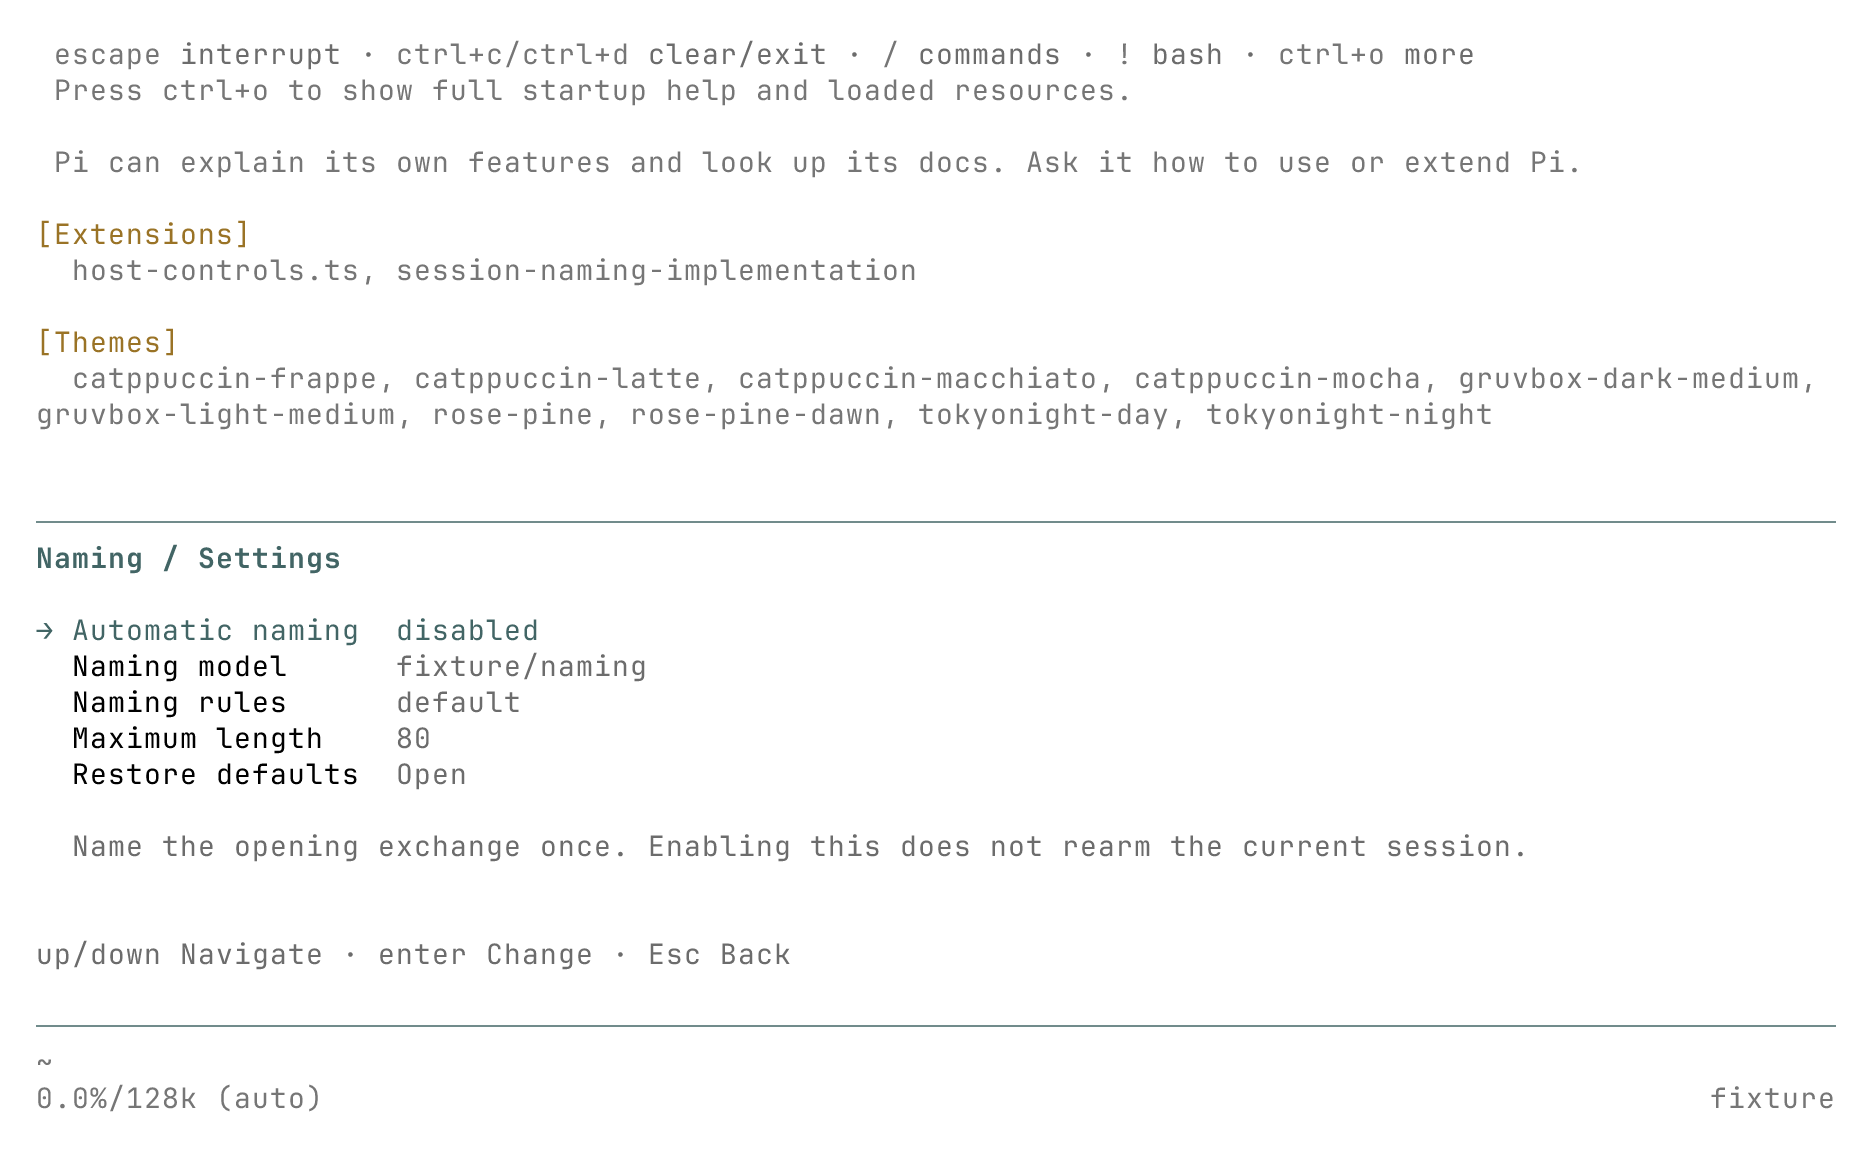
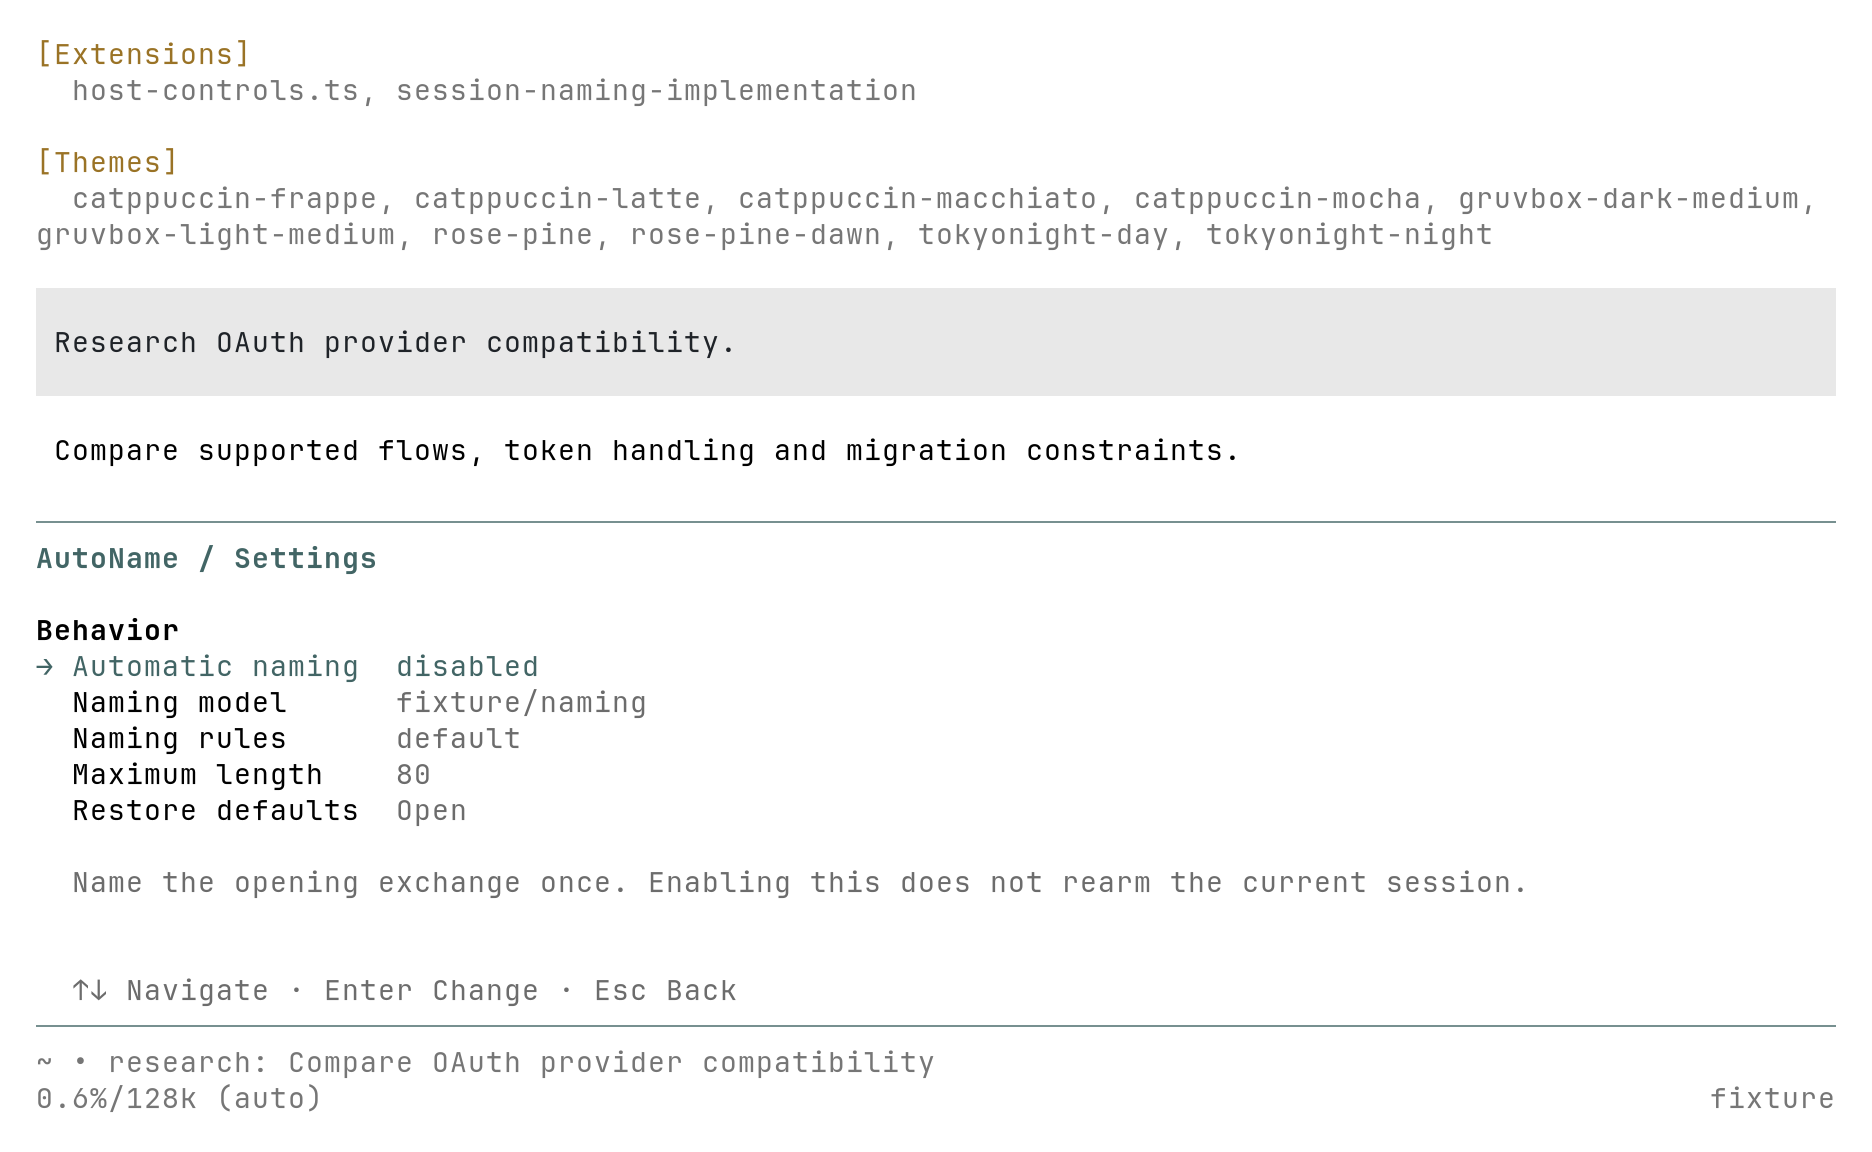
docs(naming): document AutoName commands and shared panel evidence

diff --git a/docs/session-naming.md b/docs/session-naming.md
@@ -4,13 +4,13 @@
 
 Pi Stuff names a fresh foreground TUI session after its first successful exchange. It makes one attempt and leaves that name alone on later turns. A cancelled, failed or ambiguous opening leaves the session unnamed until you choose a name yourself.
 
-Use Pi's native `/name Exact title` for a direct assignment. `/autoname` generates a replacement from the opening request and recent dialogue; `/autoname Document OAuth migration risks` gives the model a task hint with priority over that dialogue. Accepting `/autoname` permanently ends automation for that session, including when generation fails. A newer command supersedes a pending request.
+Use Pi's native `/name Exact title` for a direct assignment. `/autoname` generates a replacement from the opening request and recent dialogue; `/autoname Document OAuth migration risks` gives the model a task hint with priority over that dialogue. Accepting a generation request permanently ends automation for that session, including when generation fails. A newer command supersedes a pending request.
 
 Generation has no progress notice and succeeds silently by updating the native session name. Errors use Pi's native chat-area notification. If the name has not reached storage, the only success-related notice is `Name not saved yet.`. Print/JSON commands wait for completion and send feedback to stderr, leaving JSON stdout machine-readable. Automatic requests run quietly in the background. A pending result cannot overwrite a later direct rename, navigation or another generation. Names belong to the whole session, including its branches.
 
-## Naming panel
+## AutoName panel
 
-Open `/naming` in a TUI to see the current name, generate a replacement or change settings. Generation accepts an optional task hint and applies the result immediately. If neither dialogue text nor a hint exists, it asks for a hint without calling the model. Back/close cancels an unfinished request started by the panel; an applied name is kept.
+Open `/autoname panel` in a TUI to see the current name, change settings or generate a replacement. Settings is the first menu item. Generate name uses the current dialogue directly and applies the result without a hint page. A blank conversation stays unnamed and makes no model request. Closing the panel or opening Settings cancels an unfinished panel request; an applied name is kept. Opening the panel alone does not consume opening automation. The exact argument `panel` is reserved for this view; other `/autoname` text remains an optional task hint.
 
 Settings save individually and take effect immediately:
 
@@ -22,7 +22,7 @@ Settings save individually and take effect immediately:
 
 A committed configuration change cancels older naming requests without retrying. A failed save keeps the active settings and any pending request. External file edits are not overwritten: use `/reload` before retrying. Confirmed settings are durable; Esc abandons unsubmitted text, not a save already started. Session replacement or reload waits for confirmed saves to finish before loading settings into the next runtime.
 
-The panel uses Pi's theme, native selection and input bindings. Esc always goes back or closes, including under remapped cancel bindings. Long names and model identifiers have `[` / `]` pages. The minimum size is 56 columns by 24 rows; smaller terminals show a resize notice with an exit action. Both Naming and RTK reuse the existing local contrast correction for Pi's built-in light palette, without changing custom themes.
+The panel uses Pi's theme, native selection and input bindings. Esc always goes back or closes, including under remapped cancel bindings. Long names and model identifiers have `[` / `]` pages. The minimum size is 56 columns by 24 rows; smaller terminals show a resize notice with an exit action. AutoName and RTK share title/borders, menu columns/spacing, settings and editor layout, keyboard hints and the local contrast correction for Pi's built-in light palette. Their actions and request/save lifetimes remain feature-owned. Custom themes are unchanged.
 
 ## Configuration
 
@@ -74,7 +74,7 @@ The Pi 0.85.1 API mapping requests SSE, `maxRetries: 0` and a finite `maxTokens`
 
 Tests use real isolated Pi commands, lifecycle events and native session files with a controlled HTTP model. See [issue #108](https://github.com/jczhang02/pi-stuff/issues/108) for specification, runtime acceptance, recorded model examples and review evidence.
 
-## Acceptance evidence (2026-09-22)
+## Acceptance evidence (2026-09-22-23)
 
 The runtime checks use Linux, Bun 1.4.0, Pi 0.85.1 from the pinned dependency and the maintainer's compiled Pi 0.87.0 (runtime-reported Bun 1.4.0). Terminal Control 1.2.1 drives real regular/fullscreen sessions with isolated settings, session files and working directories. The controlled model verifies request counts, errors, deadlines, navigation races, forks, reload/restart, preflight failure and compaction queue replay. A readonly session file and Linux `/dev/full` exercise native write failures. The extension preflights known unwritable files; an unexpected failure during Pi's write can leave the displayed name changed but unsaved. The extension tells the user to fix file access and restart with that session before continuing. It does not append a compensating rename: Pi advances its in-memory history before writing, so a second write could persist a broken parent link. Recovery checks reopen the repaired file and verify its existing messages and parent chain.
 
@@ -93,12 +93,22 @@ The following eight names came from actual `openai-codex/gpt-6-astra` requests t
 | `/autoname` after the agreed task changes to OAuth risk documentation           | `docs: Document OAuth migration risks only`                            |
 | `/autoname Fix session rename races in Pi` overrides earlier dialogue           | `fix: Resolve session rename races in Pi`                              |
 
-The panel tests cover field saves and resets, multiline rules, invalid length, stale-file refusal, committed-save cancellation, panel cancellation, remapped keys, persistence status refresh and long-value pagination. The captures below were taken from compiled Pi 0.87.0 with a controlled local model, using real commands at 100×30 and 56×24. Their displayed title is fixture output; the live-model samples above are separate evidence.
+The panel tests cover field saves and resets, multiline rules, invalid length, stale-file refusal, committed-save cancellation, panel cancellation, remapped keys, persistence status refresh and long-value pagination. The captures below were taken from compiled Pi 0.87.0 with a controlled local model, using real commands at 100×30, 56×26 and 56×24. RTK comparison captures use a local executable fixture with synthetic statistics. Their displayed title is fixture output; the live-model samples above are separate evidence.
 
 The light terminal uses black/white default foreground/background; dark uses light text on black. Exports explicitly use `JetBrainsMono Nerd Font Mono, Symbols Nerd Font Mono, LXGW WenKai Mono`. These are headless terminal captures, not native window/compositor evidence.
 
-![Dark naming panel after applying a temporary name](assets/session-naming/panel-dark.png)
+![Dark AutoName panel after generating from dialogue](assets/session-naming/panel-dark.png)
 
-![Light naming settings panel](assets/session-naming/panel-light.png)
+![Light AutoName settings panel](assets/session-naming/panel-light.png)
 
 ![Model selection at the minimum 56×24 size](assets/session-naming/panel-narrow.png)
+
+The same shared components render the RTK views below. Feature summaries differ, while heading, menu columns, settings group and keyboard hints use the same layout.
+
+![Dark RTK home at the same 100×30 viewport](assets/session-naming/rtk-root-dark.png)
+
+![Light RTK settings at the same 100×30 viewport](assets/session-naming/rtk-settings-light.png)
+
+![AutoName home at 56×26](assets/session-naming/autoname-root-narrow.png)
+
+![RTK home at 56×26](assets/session-naming/rtk-root-narrow.png)

diff --git a/docs/i18n/zh-CN/session-naming.md b/docs/i18n/zh-CN/session-naming.md
@@ -4,13 +4,13 @@
 
 Pi Stuff 会在新建前台 TUI 会话的首次成功问答后尝试命名一次, 后续轮次不再改名. 首轮取消、失败或含义不明时会保持未命名, 等待手动处理.
 
-Pi 原生 `/name Exact title` 用于直接赋名. `/autoname` 根据开场请求和最近对话生成替代名称; `/autoname Document OAuth migration risks` 提供优先于对话的任务提示. 一旦接受 `/autoname`, 该会话就永久停止自动命名, 即使生成失败也一样. 新命令会取代尚未完成的请求.
+Pi 原生 `/name Exact title` 用于直接赋名. `/autoname` 根据开场请求和最近对话生成替代名称; `/autoname Document OAuth migration risks` 提供优先于对话的任务提示. 一旦接受生成请求, 该会话就永久停止自动命名, 即使生成失败也一样. 新命令会取代尚未完成的请求.
 
 生成期间没有进度提示, 成功后只更新原生会话名称. 错误使用 Pi 原生聊天区提醒. 名称尚未落盘时, 唯一与成功相关的提醒是 `Name not saved yet.`. Print/JSON 命令会等待完成并将反馈写入 stderr, 保持 JSON stdout 可供机器解析. 自动请求在后台安静运行. 旧结果不能覆盖后来的直接改名、导航或新生成. 名称属于整个会话, 各分支共用.
 
-## 命名面板
+## AutoName 面板
 
-在 TUI 中执行 `/naming`, 可以查看当前名称、生成替代名称或修改设置. 生成时可补充任务提示, 结果直接应用. 对话文本和提示都为空时, 会要求补充提示, 不调用模型. 返回或关闭会取消面板启动的未完成请求, 保留已经应用的名称.
+在 TUI 中执行 `/autoname panel`, 可以查看当前名称、修改设置或生成替代名称. Settings 是首个菜单项. Generate name 直接根据当前对话生成并应用, 不再先进入 hint 页. 空白对话保持未命名, 不调用模型. 关闭面板或进入 Settings 会取消面板启动的未完成请求, 保留已经应用的名称. 仅打开面板不消耗开场自动机会. 完整参数 `panel` 保留给面板入口, 其他 `/autoname` 文本仍作为可选任务提示.
 
 设置逐项保存并立即生效:
 
@@ -22,7 +22,7 @@ Pi 原生 `/name Exact title` 用于直接赋名. `/autoname` 根据开场请求
 
 配置提交成功会取消旧命名请求, 不重试. 保存失败则保留生效配置和未完成请求. 不覆盖外部文件修改, 需先 `/reload` 再重试. 已确认的设置会保存; Esc 放弃未提交文本, 不撤销已经开始的保存. 会话替换或 reload 会等待已确认的保存结束, 再为新 runtime 加载设置.
 
-面板沿用 Pi 主题、原生选择和输入按键. 即使重新绑定 cancel, Esc 仍用于返回或关闭. 长名称和模型标识符可用 `[` / `]` 翻页. 最小尺寸为 56 列、24 行, 更小终端显示尺寸提示并保留退出方式. Naming 与 RTK 共用已有的 Pi 内置浅色主题局部对比度修正, 不修改自定义主题.
+面板沿用 Pi 主题、原生选择和输入按键. 即使重新绑定 cancel, Esc 仍用于返回或关闭. 长名称和模型标识符可用 `[` / `]` 翻页. 最小尺寸为 56 列、24 行, 更小终端显示尺寸提示并保留退出方式. AutoName 与 RTK 共用标题边框、菜单列宽间距、设置和编辑页布局、按键提示, 以及 Pi 内置浅色主题的局部对比度修正. 各功能分别管理操作、请求和保存生命周期, 不修改自定义主题.
 
 ## 配置
 
@@ -74,7 +74,7 @@ Pi 0.85.1 API 映射请求 SSE、`maxRetries: 0` 和有限的 `maxTokens`. OpenA
 
 测试使用真实隔离的 Pi 命令、生命周期和原生会话文件, 只控制 HTTP 模型服务. 规格、运行时验收、真实模型名称样本及审查证据见 [Issue #108](https://github.com/jczhang02/pi-stuff/issues/108).
 
-## 验收证据 (2026-09-22)
+## 验收证据 (2026-09-22-23)
 
 运行环境为 Linux、Bun 1.4.0、固定依赖中的 Pi 0.85.1, 以及维护者的编译版 Pi 0.87.0 (宿主实际报告 Bun 1.4.0). Terminal Control 1.2.1 驱动真实 regular/fullscreen 会话, 设置、会话文件和工作目录均隔离. 受控模型验证请求数、错误、截止时间、导航竞态、fork、reload/重启、预检失败和 compaction 队列回放. 只读会话文件和 Linux `/dev/full` 用于验证原生写入失败. 扩展会提前检查已知不可写文件; 如果 Pi 实际写入时仍意外失败, 显示的名称可能已经改变但尚未保存. 扩展会要求修复文件访问后带该会话重启再继续, 不再追加一次改名来补偿: Pi 在写入前就推进了内存历史, 第二次写入可能将断开的父链保存到磁盘. 恢复测试会重新打开修复后的文件, 检查原有消息和父链.
 
@@ -93,12 +93,22 @@ Pi 0.85.1 API 映射请求 SSE、`maxRetries: 0` 和有限的 `maxTokens`. OpenA
 | 主任务改为 OAuth 风险文档后执行 `/autoname`                 | `docs: Document OAuth migration risks only`                            |
 | `/autoname Fix session rename races in Pi` 优先于之前的对话 | `fix: Resolve session rename races in Pi`                              |
 
-面板测试覆盖逐项保存和重置、多行规则、无效长度、拒绝外部修改冲突、保存成功后取消旧请求、关闭面板取消、按键重映射、持久化状态刷新及长值分页. 下图来自编译版 Pi 0.87.0 和本地受控模型, 通过真实命令在 100×30 与 56×24 终端中取得. 图中名称由 fixture 返回, 与上面的真实模型样本分开记录.
+面板测试覆盖逐项保存和重置、多行规则、无效长度、拒绝外部修改冲突、保存成功后取消旧请求、关闭面板取消、按键重映射、持久化状态刷新及长值分页. 下图来自编译版 Pi 0.87.0 和本地受控模型, 通过真实命令在 100×30、56×26 与 56×24 终端中取得. RTK 对照图使用本地可执行 fixture 和人工构造的统计. 图中名称由 fixture 返回, 与上面的真实模型样本分开记录.
 
 浅色终端的默认前景/背景为黑/白, 深色为黑底浅色文字. 导出明确使用 `JetBrainsMono Nerd Font Mono, Symbols Nerd Font Mono, LXGW WenKai Mono`. 这些是无窗口终端截图, 不代表原生窗口或合成器体验.
 
-![深色面板中刚应用的临时名称](../../assets/session-naming/panel-dark.png)
+![深色 AutoName 面板中根据对话生成的名称](../../assets/session-naming/panel-dark.png)
 
-![浅色命名设置面板](../../assets/session-naming/panel-light.png)
+![浅色 AutoName 设置面板](../../assets/session-naming/panel-light.png)
 
 ![最小 56×24 尺寸下的模型选择](../../assets/session-naming/panel-narrow.png)
+
+下方 RTK 界面由同一套共享组件渲染. 功能摘要各异, 标题、菜单列、设置分组和按键提示使用共同布局.
+
+![相同 100×30 尺寸下的深色 RTK 首页](../../assets/session-naming/rtk-root-dark.png)
+
+![相同 100×30 尺寸下的浅色 RTK 设置](../../assets/session-naming/rtk-settings-light.png)
+
+![56×26 的 AutoName 首页](../../assets/session-naming/autoname-root-narrow.png)
+
+![56×26 的 RTK 首页](../../assets/session-naming/rtk-root-narrow.png)

diff --git a/README.md b/README.md
@@ -17,7 +17,7 @@ This checkout contains a development web extension with independent search, page
 
 [RTK integration](docs/rtk.md) adds supported Bash rewriting, independent final-result ANSI cleanup and an inline `/rtk` panel for settings, native usage and diagnostics. It resolves mise-managed installations without changing PATH and retains Pi's built-in Bash execution.
 
-[Session naming](docs/session-naming.md) generates an opening title once, with explicit `/autoname` replacements and an RTK-style `/naming` panel for names, model, rules and length.
+[Session naming](docs/session-naming.md) generates an opening title once, with explicit `/autoname` replacements and an `/autoname panel` view sharing RTK panel components for names, model, rules and length.
 
 The package also includes ten light and dark [themes](docs/themes.md) from Catppuccin, Tokyo Night, Gruvbox and Rosé Pine. Choose them through Pi's theme settings; loading the package preserves your current choice.
 
@@ -52,7 +52,7 @@ To try the reviewed source extension, follow [Web access](docs/web-access.md#loa
 The [source-layout rules](docs/agents/engineering.md#source-layout) govern entrypoints and module ownership.
 
 - [index.ts](index.ts) is the sole Pi entrypoint. It loads configuration and registers capabilities directly; Pi's local extension list shows the checkout name.
-- [src/pi/](src/pi/) owns shared host configuration, tool-switch policy and panel theme compatibility.
+- [src/pi/](src/pi/) owns shared host configuration, tool-switch policy, shared panel layout and theme compatibility.
 - [src/web/](src/web/) owns Web access, including its tools, authentication, transport and session lifecycle. Other capabilities belong in sibling directories when implemented.
 - [src/rtk/](src/rtk/) owns RTK discovery, command rewriting, final-result cleanup and the inline panel.
 - [src/naming/](src/naming/) owns naming eligibility, bounded requests, guarded publication and the naming panel.

diff --git a/docs/i18n/zh-CN/README.md b/docs/i18n/zh-CN/README.md
@@ -16,7 +16,7 @@
 
 [RTK 集成](rtk.md)提供受支持的 Bash 改写、独立的最终结果 ANSI 清理, 以及包含设置、原生用量和诊断的内联 `/rtk` 面板. 它能发现 mise 管理的安装, 不修改 PATH, 保留 Pi 内置 Bash 执行.
 
-[会话命名](session-naming.md)只在开场生成一次名称, 支持手动 `/autoname` 替换, 并提供参考 RTK 的 `/naming` 面板, 管理名称、模型、规则和长度.
+[会话命名](session-naming.md)只在开场生成一次名称, 支持手动 `/autoname` 替换, 并提供与 RTK 共用组件的 `/autoname panel` 面板, 管理名称、模型、规则和长度.
 
 包内还提供 Catppuccin、Tokyo Night、Gruvbox 和 Rosé Pine 共十款明暗[主题](themes.md). 通过 Pi 主题设置选择, 加载包会保留当前选择.
 
@@ -51,7 +51,7 @@ cd pi-stuff
 [源码布局规则](agents/engineering.md#源码布局)约束入口和模块职责.
 
 - [index.ts](../../../index.ts) 是唯一的 Pi 入口, 直接读取配置并注册各项能力; Pi 的本地扩展列表显示检出目录名.
-- [src/pi/](../../../src/pi/) 管理共用的宿主配置、工具开关策略和面板主题兼容.
+- [src/pi/](../../../src/pi/) 管理共用的宿主配置、工具开关策略、共用面板布局和主题兼容.
 - [src/web/](../../../src/web/) 管理网页访问, 包含工具, 认证, 网络实现和会话生命周期. 其他能力实现时放在同级目录.
 - [src/rtk/](../../../src/rtk/) 管理 RTK 发现、命令改写、最终结果清理和内联面板.
 - [src/naming/](../../../src/naming/) 管理命名资格、请求限制、结果发布保护和命名面板.
